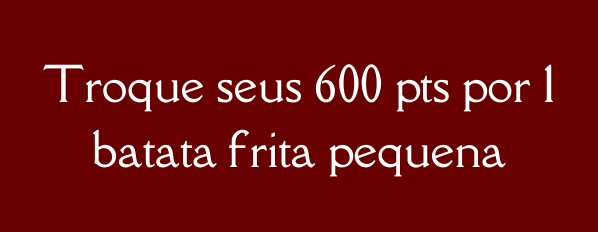
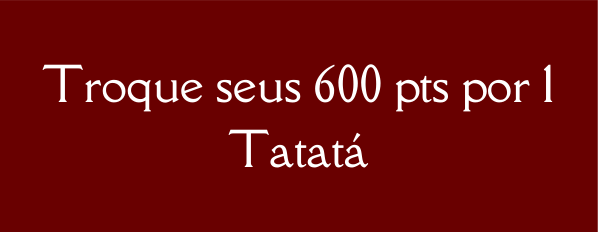
Atualização Mercado

diff --git a/banquete_do_monarca/lib/pages/MenusLaterais/mercado_page.dart b/banquete_do_monarca/lib/pages/MenusLaterais/mercado_page.dart
@@ -1,8 +1,12 @@
 import 'package:banquete_do_monarca/components/background_geral.dart';
 import 'package:banquete_do_monarca/components/carrinho_view.dart';
+import 'package:banquete_do_monarca/repository/cart_model.dart';
 import 'package:flutter/material.dart';
+import 'package:provider/provider.dart';
 
+import '../../components/background_mercado.dart';
 import '../../components/menu_lateral.dart';
+import '../../components/troca_mercado.dart';
 import '../../core/app_colors.dart';
 import '../Login/login_page.dart';
 
@@ -29,47 +33,9 @@ class _MercadoPageState extends State<MercadoPage> {
           return Stack(
             children: <Widget>[
               const BackgroundGeneral(),
-              Column(mainAxisAlignment: MainAxisAlignment.center, children: [
-                Container(
-                    margin: EdgeInsets.only(
-                      top: MediaQuery.of(context).size.height * 0.110,
-                      left: MediaQuery.of(context).size.width * 0.100,
-                    ),
-                    width: MediaQuery.of(context).size.width * 0.95,
-                    height: MediaQuery.of(context).size.height * 0.89,
-                    decoration: const BoxDecoration(
-                        image: DecorationImage(
-                      image:
-                          AssetImage("assets/imagens_mercado/background.png"),
-                      fit: BoxFit.fill,
-                    )),
-                    child: Column(children: [
-                      Container(
-                        margin: EdgeInsets.only(
-                          top: MediaQuery.of(context).size.height * 0.006,
-                          right: MediaQuery.of(context).size.width * 0.1,
-                        ),
-                        width: MediaQuery.of(context).size.width * 0.4,
-                        height: MediaQuery.of(context).size.height * 0.225,
-                        child: Image.asset(
-                          "assets/imagens_mercado/balao-fala.png",
-                          fit: BoxFit.fill,
-                        ),
-                      ),
-                      Container(
-                        margin: EdgeInsets.only(
-                          top: MediaQuery.of(context).size.height * 0.009,
-                          right: MediaQuery.of(context).size.width * 0.54,
-                        ),
-                        width: MediaQuery.of(context).size.width * 0.38,
-                        height: MediaQuery.of(context).size.height * 0.65,
-                        child: Image.asset(
-                          "assets/imagens_mercado/mercador.png",
-                          fit: BoxFit.fill,
-                        ),
-                      ),
-                    ]))
-              ]),
+              Column(
+                  mainAxisAlignment: MainAxisAlignment.center,
+                  children: [BackgroundMercado(context)]),
               Column(
                 mainAxisAlignment: MainAxisAlignment.start,
                 children: [
@@ -110,54 +76,29 @@ class _MercadoPageState extends State<MercadoPage> {
                                   "assets/imagens_mercado/garrafinha.png")))),
                 ],
               ),
-              Row(
-                mainAxisAlignment: MainAxisAlignment.center,
-                children: [
-                  Column(children: [
-                    GestureDetector(
-                        child: Container(
-                      margin: EdgeInsets.only(
-                        top: MediaQuery.of(context).size.height * 0.32,
-                        left: MediaQuery.of(context).size.height * 1.35,
-                      ),
-                      width: MediaQuery.of(context).size.width * 0.2,
-                      height: MediaQuery.of(context).size.height * 0.2,
-                      decoration: const BoxDecoration(
-                          image: DecorationImage(
-                        image: AssetImage("assets/imagens_mercado/troca.png"),
-                        fit: BoxFit.fill,
-                      )),
-                    )),
-                    GestureDetector(
-                        child: Container(
-                      margin: EdgeInsets.only(
-                        top: MediaQuery.of(context).size.height * 0.02,
-                        left: MediaQuery.of(context).size.height * 1.35,
-                      ),
-                      width: MediaQuery.of(context).size.width * 0.2,
-                      height: MediaQuery.of(context).size.height * 0.2,
-                      decoration: const BoxDecoration(
-                          image: DecorationImage(
-                        image: AssetImage("assets/imagens_mercado/troca.png"),
-                        fit: BoxFit.fill,
-                      )),
-                    )),
-                    GestureDetector(
-                        child: Container(
-                      margin: EdgeInsets.only(
-                        top: MediaQuery.of(context).size.height * 0.02,
-                        left: MediaQuery.of(context).size.height * 1.35,
-                      ),
-                      width: MediaQuery.of(context).size.width * 0.2,
-                      height: MediaQuery.of(context).size.height * 0.2,
-                      decoration: const BoxDecoration(
-                          image: DecorationImage(
-                        image: AssetImage("assets/imagens_mercado/troca.png"),
-                        fit: BoxFit.fill,
-                      )),
-                    )),
-                  ])
-                ],
+              Container(
+                margin: EdgeInsets.only(
+                  top: MediaQuery.of(context).size.height * 0.32,
+                  left: MediaQuery.of(context).size.height * 1.35,
+                ),
+                child: Consumer<CartModel>(
+                  builder: (context, value, child) {
+                    return ListView.builder(
+                      itemCount: 3,
+                      itemBuilder: (context, index) {
+                        return Column(
+                          children: [
+                            TrocaMercado(
+                              onPressed: () =>
+                                  Provider.of<CartModel>(context, listen: false)
+                                      .addBrindeToCart(index),
+                            ),
+                          ],
+                        );
+                      },
+                    );
+                  },
+                ),
               ),
               Column(
                 children: [
@@ -223,3 +164,40 @@ class _MercadoPageState extends State<MercadoPage> {
     );
   }
 }
+
+
+
+
+
+                          // GestureDetector(
+                          //     child: Container(
+                          //   margin: EdgeInsets.only(
+                          //     top: MediaQuery.of(context).size.height * 0.02,
+                          //     left: MediaQuery.of(context).size.height * 1.35,
+                          //   ),
+                          //   width: MediaQuery.of(context).size.width * 0.2,
+                          //   height: MediaQuery.of(context).size.height * 0.2,
+                          //   decoration: const BoxDecoration(
+                          //       image: DecorationImage(
+                          //     image: AssetImage(
+                          //         "assets/imagens_mercado/troca.png"),
+                          //     fit: BoxFit.fill,
+                          //   )),
+                          // )),
+                          // GestureDetector(
+                          //   child: Container(
+                          //     margin: EdgeInsets.only(
+                          //       top: MediaQuery.of(context).size.height * 0.02,
+                          //       left: MediaQuery.of(context).size.height * 1.35,
+                          //     ),
+                          //     width: MediaQuery.of(context).size.width * 0.2,
+                          //     height: MediaQuery.of(context).size.height * 0.2,
+                          //     decoration: const BoxDecoration(
+                          //       image: DecorationImage(
+                          //         image: AssetImage(
+                          //             "assets/imagens_mercado/troca.png"),
+                          //         fit: BoxFit.fill,
+                          //       ),
+                          //     ),
+                          //   ),
+                          // ),

diff --git a/banquete_do_monarca/lib/components/background_mercado.dart b/banquete_do_monarca/lib/components/background_mercado.dart
@@ -1,0 +1,42 @@
+import 'package:flutter/material.dart';
+
+Container BackgroundMercado(BuildContext context) {
+  return Container(
+      margin: EdgeInsets.only(
+        top: MediaQuery.of(context).size.height * 0.110,
+        left: MediaQuery.of(context).size.width * 0.100,
+      ),
+      width: MediaQuery.of(context).size.width * 0.95,
+      height: MediaQuery.of(context).size.height * 0.89,
+      decoration: const BoxDecoration(
+          image: DecorationImage(
+        image: AssetImage("assets/imagens_mercado/background.png"),
+        fit: BoxFit.fill,
+      )),
+      child: Column(children: [
+        Container(
+          margin: EdgeInsets.only(
+            top: MediaQuery.of(context).size.height * 0.006,
+            right: MediaQuery.of(context).size.width * 0.1,
+          ),
+          width: MediaQuery.of(context).size.width * 0.4,
+          height: MediaQuery.of(context).size.height * 0.225,
+          child: Image.asset(
+            "assets/imagens_mercado/balao-fala.png",
+            fit: BoxFit.fill,
+          ),
+        ),
+        Container(
+          margin: EdgeInsets.only(
+            top: MediaQuery.of(context).size.height * 0.009,
+            right: MediaQuery.of(context).size.width * 0.54,
+          ),
+          width: MediaQuery.of(context).size.width * 0.38,
+          height: MediaQuery.of(context).size.height * 0.65,
+          child: Image.asset(
+            "assets/imagens_mercado/mercador.png",
+            fit: BoxFit.fill,
+          ),
+        ),
+      ]));
+}

diff --git a/banquete_do_monarca/lib/repository/cart_model.dart b/banquete_do_monarca/lib/repository/cart_model.dart
@@ -5,7 +5,11 @@ class CartModel extends ChangeNotifier {
   // list of items on sale
   final List _shopItems = dummyProducts;
 
+  final List _brindesItems = brindProducts;
+
   final List _cartItems = [];
+
+  get brindesItems => _brindesItems;
 
   get cartItems => _cartItems;
 
@@ -21,15 +25,14 @@ class CartModel extends ChangeNotifier {
     notifyListeners();
   }
 
-  bool cartVazio() {
-    bool cartVazio;
-    if (cartItems.isEmpty) {
-      cartVazio = true;
-      return cartVazio;
-    } else {
-      cartVazio = false;
-      return cartVazio;
-    }
+  void addBrindeToCart(int index) {
+    _cartItems.add(_brindesItems[index]);
+    notifyListeners();
+  }
+
+  void removeBrindeToCart(int index) {
+    _cartItems.removeAt(_brindesItems[index]);
+    notifyListeners();
   }
 
   String calculateTotal() {

diff --git a/banquete_do_monarca/lib/components/troca_mercado.dart b/banquete_do_monarca/lib/components/troca_mercado.dart
@@ -1,0 +1,29 @@
+import 'package:flutter/material.dart';
+
+class TrocaMercado extends StatelessWidget {
+  void Function()? onPressed;
+  TrocaMercado({
+    required this.onPressed,
+    Key? key,
+  }) : super(key: key);
+
+  @override
+  Widget build(BuildContext context) {
+    return Padding(
+      padding: const EdgeInsets.all(5.0),
+      child: GestureDetector(
+        onTap: onPressed,
+        child: Container(
+          width: MediaQuery.of(context).size.width * 0.2,
+          height: MediaQuery.of(context).size.height * 0.2,
+          decoration: const BoxDecoration(
+            image: DecorationImage(
+              image: AssetImage("assets/imagens_mercado/troca.png"),
+              fit: BoxFit.fill,
+            ),
+          ),
+        ),
+      ),
+    );
+  }
+}

diff --git a/banquete_do_monarca/lib/data/dummy_data.dart b/banquete_do_monarca/lib/data/dummy_data.dart
@@ -92,3 +92,27 @@ final List dummyProducts = [
     "assets/imagens_bebidas/Oriumm.png",
   ]
 ];
+
+final List brindProducts = [
+  [
+    "Jatomân",
+    "assets/imagens_mercado/jatoman-p.png",
+    "00",
+    "-300",
+    "assets/imagens_mercado/troca.png",
+  ],
+  [
+    "Tatatá",
+    "assets/imagens_mercado/tatata-p.png",
+    "00",
+    "-600",
+    "assets/imagens_mercado/troca.png",
+  ],
+  [
+    "Garrafinha",
+    "assets/imagens_mercado/garafa-p.png",
+    "00",
+    "-1000",
+    "assets/imagens_mercado/troca.png",
+  ]
+];

diff --git a/banquete_do_monarca/lib/components/carrinho_view.dart b/banquete_do_monarca/lib/components/carrinho_view.dart
@@ -157,8 +157,6 @@ class Carrinho extends StatelessWidget {
                             onPressed: () {
                               pontosRecebidos =
                                   int.parse(value.calculatePoints());
-                              print(pontos);
-                              print(pontosRecebidos);
                               Navigator.of(context).push(MaterialPageRoute(
                                   builder: (context) => const PagamentoPage()));
                             },
